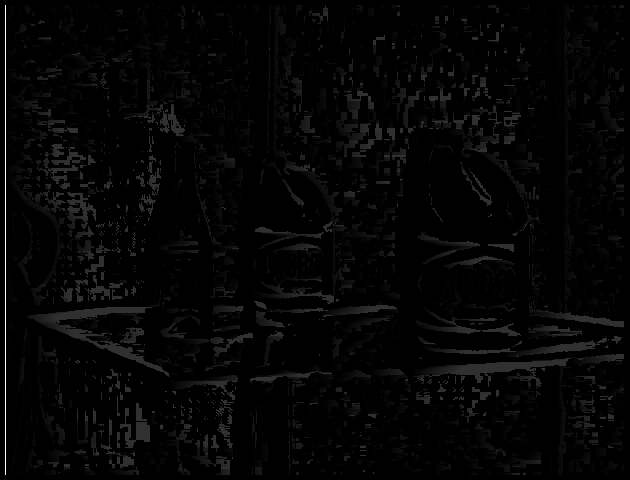
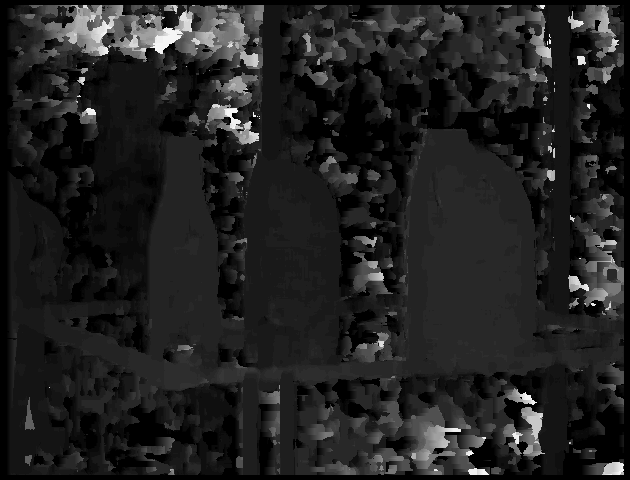
Terminada

diff --git a/practica4.py b/practica4.py
@@ -8,13 +8,15 @@ def calcula_SSD(xr,yr,xl,yl,f,h,block):
 
     inc = int(block[0] / 2)
     block_f = f[xr - inc:xr + inc+1, yr - inc:yr + inc+1]
-    block_h = h[xl, yl] * np.ones(block)
+    block_h = h[xl - inc:xl + inc+1, yl - inc:yl + inc+1]
 
 
-    SSD = 1/(1+np.sum((block_f-block_h)**2))
+    #SSD = 1/(1+np.sum((block_f-block_h)**2))
+    SSD = np.sum((block_f-block_h)**2)
 
 
     return SSD
+
 
 
 
@@ -28,7 +30,7 @@ if __name__=="__main__":
     disparidad = np.zeros(imgR.shape,dtype='uint8')
 
     for x in range(int(block[0]/2),imgR.shape[0]-int(block[0]/2)):
-        for y in range(int(block[1]/2),imgR.shape[1]-int(block[1]/2)-1):
+        for y in range(int(block[0]/2),imgR.shape[1]-int(block[0]/2)-1):
             #Para el pixel "x" e "y"
 
             flag = False
@@ -40,18 +42,16 @@ if __name__=="__main__":
                                           xl=x,yl=y,
                                           f=imgR,h=imgL,
                                           block=block)
+
                     if flag == False:
                         min = SSD
                         flag = True
                     else:
-                        if SSD<min:
-                            min=SSD
-                        else:
-                            # la iteracion anterior es la que tiene el SSD menor
+                        if SSD < min:
+                            min = SSD
+                            disparidad[x, y] = it
 
-                            break
 
-            disparidad[x, y] = it - 1
 
 
 
@@ -63,8 +63,6 @@ if __name__=="__main__":
     disparidad = int(255/max_dispar) * disparidad
 
     cv2.imwrite("disparidad.png", disparidad)
-
-
     plt.imshow(disparidad,cmap='gray')
     plt.title("Disparidad")
 
